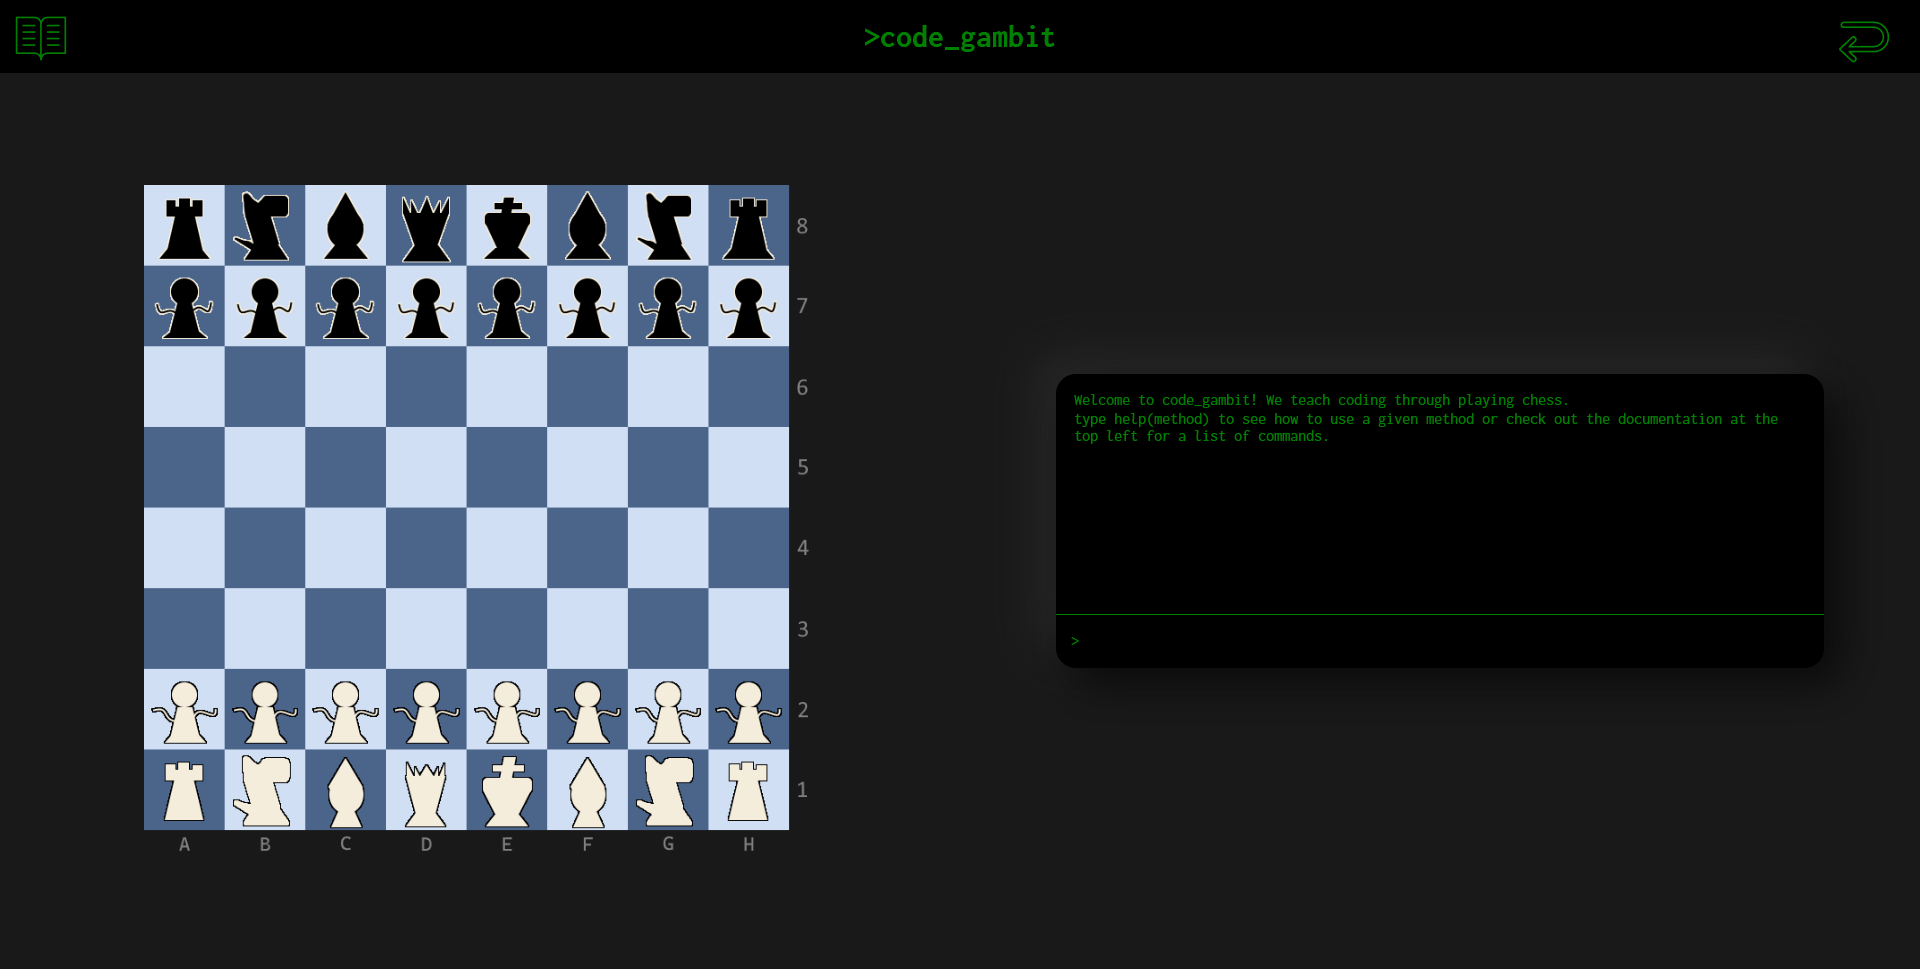
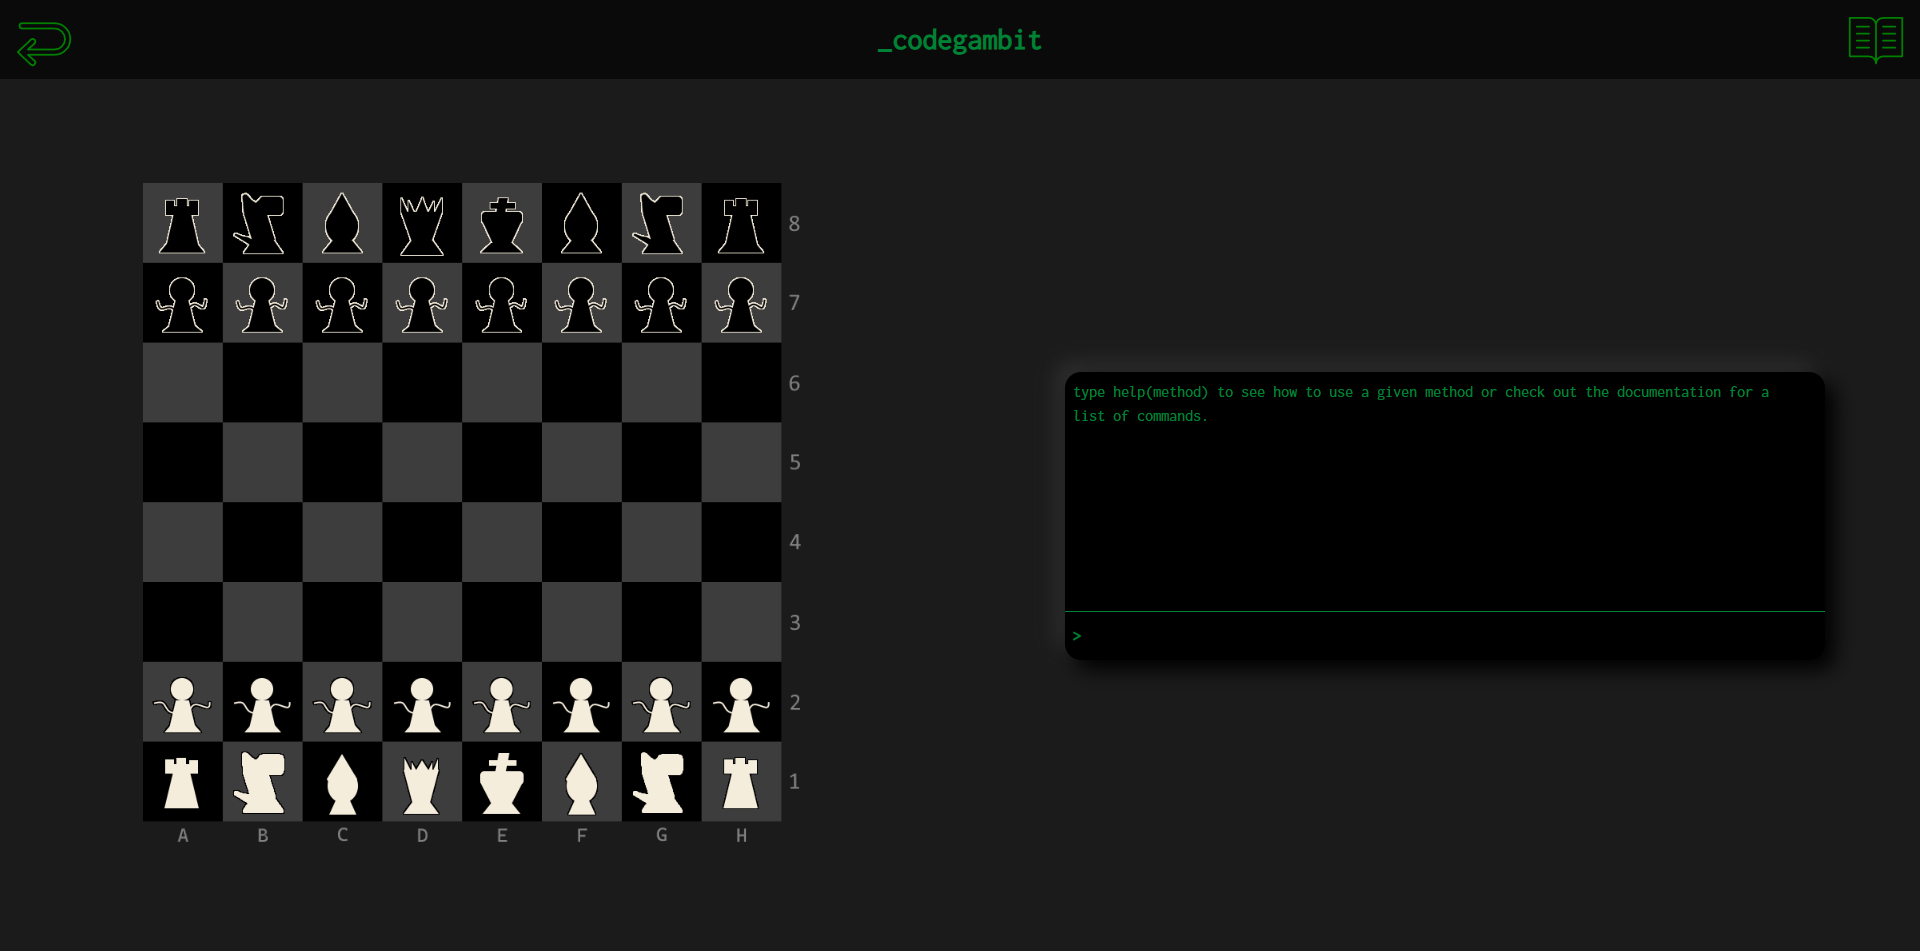
updated readme and added documentation nav to header

diff --git a/src/components/header.tsx b/src/components/header.tsx
@@ -1,19 +1,27 @@
-import { Link } from 'react-router-dom';
+import { useNavigate, useLocation, Link } from 'react-router-dom';
 import backIcon from '../assets/icons/back.svg';
+import docsIcon from '../assets/icons/docs.svg';
 
-function NavHeader(from: string) {
+function NavHeader() {
+    const navigate = useNavigate();
+    const location = useLocation();
 
     return <header className='text-green-700 w-full h-20 min-h-20 flex justify-center place-items-center bg-neutral-950'>
-        <Link
-            to="../"
-            state={{from: from}}
-            className='absolute left-4'
+        <button
+            onClick={() => navigate(-1)}
+            className='absolute left-4 cursor-pointer'
         >
             <img src={backIcon} className="w-14" />
-        </Link>
+        </button>
         <h1 className='text-3xl font-semibold'>
             _codegambit
         </h1>
+        <Link
+            to="../documentation"
+            className={`absolute right-4${location.pathname == '/documentation' ? ' hidden' : ''}`}
+        >
+            <img src={docsIcon} className="w-14" />
+        </Link>
     </header>
 }
 

diff --git a/src/pages/documentation.tsx b/src/pages/documentation.tsx
@@ -10,7 +10,7 @@ function DocumentationPage() {
     const data: CommandCategory[] = DocData;
 
     return <div className='text-green-700 h-screen overflow-hidden'>
-        { NavHeader('documentation') }
+        <NavHeader />
         <div className='w-screen h-[calc(100%-5rem)] flex'>
             <div className="h-full overflow-y-scroll bg-neutral-900 transition-all duration-500 w-0 opacity-0 lg:w-65 lg:min-w-[250px] lg:opacity-100">
                 <h1 className='font-extrabold text-3xl p-3'>Documentation</h1>

diff --git a/src/pages/puzzles.tsx b/src/pages/puzzles.tsx
@@ -5,7 +5,7 @@ import PuzzleSelector from "../components/puzzleselector";
 function PuzzlesPage() {
 
     return <div className="flex flex-col w-full min-h-screen justify-between items-center">
-        { NavHeader('puzzles') }
+        <NavHeader />
         <section className="h-full my-auto w-full flex flex-col gap-5 py-5 justify-center items-center lg:grid lg:grid-cols-2 lg:place-items-center">
             <Board />
             <PuzzleSelector />

diff --git a/src/pages/scripting.tsx b/src/pages/scripting.tsx
@@ -5,7 +5,7 @@ import ScriptEditor from "../components/scripteditor";
 function ScriptingPage() {
 
     return <div className="flex flex-col w-full min-h-screen justify-around items-center">
-        { NavHeader('scripting') }
+        <NavHeader />
         <section className="h-full my-auto w-full flex flex-col py-5 gap-5 justify-center items-center lg:grid lg:grid-cols-2 lg:place-items-center">
             <Board />
             <ScriptEditor />

diff --git a/src/pages/singleplayer.tsx b/src/pages/singleplayer.tsx
@@ -5,7 +5,7 @@ import Terminal from "../components/terminal";
 function SinglePlayerPage() {
 
     return <div className="flex flex-col w-full min-h-screen justify-between items-center">
-        { NavHeader('singleplayer') }
+        <NavHeader />
         <section className="h-full my-auto w-full flex flex-col gap-5 py-5 justify-center items-center lg:grid lg:grid-cols-2 lg:place-items-center">
             <Board />
             <Terminal />

diff --git a/src/interpreters/scriptinterpreter.tsx b/src/interpreters/scriptinterpreter.tsx
@@ -3,7 +3,9 @@ import { setScript } from "../reducers/script";
 import { useAppDispatch } from '../store/hooks';
 
 class ScriptInterpreter {
+    
     dispatch = useAppDispatch();
+
     _commandIndex: number = 0;
     _commands: string[] = [];
     _variables: ScriptVariable[] = [];

diff --git a/README.md b/README.md
@@ -12,11 +12,9 @@
     learn the basics of coding by playing chess!
     <br />
     <br />
-    <a href="https://github.com/joshbacon/codegambit">View Site</a>
+    <a href="http://codegambit.joshbacon.ca/">View Site</a>
     ·
     <a href="https://github.com/joshbacon/codegambit/issues/new">Report Bug</a>
-    ·
-    <a href="https://github.com/joshbacon/codegambit/issues/new">Request Feature</a>
   </p>
 </div>
 
@@ -26,24 +24,24 @@
 <!-- ABOUT THE PROJECT -->
 ## About The Project
 
-[![codegambit Screen Shot][product-screenshot]](https://codegambit.io)
+[![codegambit Screen Shot]][product-screenshot]
 
-`codegambit` is web app aimed to get users used to entering commands and writing simple functions in the context of playing chess. Play a game against a bot or a friend by entering commands into a terminal. You can also complete puzzles and lessons by writing scripts that execute multiple moves to solve the problem.
+`codegambit` is web app aimed to get users used to entering commands and scripting in the context of playing chess. Play a game against a bot or complete puzzles by writing scripts that execute multiple moves to solve the problem.
 
 
 
 ### Built With
 
-This project is built with primarily JavaScript at the moment. I used React for the frontend design and functionality along with Redux to maintain the game state. The user management system was implemented with the help of PocketBase. This allows for game/puzzle/lesson tracking and opens the door for multiplayer games.
+This project is built with primarily TypeScript at the moment. I used React for the frontend design and functionality along with Redux to maintain the game state. 
 
 * [![React][React.js]][React-url]
 * [![Redux][Redux.com]][Redux-url]
-* [![PocketBase][PocketBase]][PocketBase-url]
 
 ### Coming Up
 
-I aim to create a Go backend to maintain multiplayer game lobbies using websockets. For faster load times, and other benefits of server side rendering, I also want to migrate to Next.JS.
+The user management system was implemented with the help of PocketBase. This will allow for game/puzzle tracking and opens the door for multiplayer games. I aim to create a Go backend to maintain multiplayer game lobbies using websockets. For faster load times, and other benefits of server side rendering, I also want to migrate to Next.JS.
 
+* [![PocketBase][PocketBase]][PocketBase-url]
 * [![go][go]][go-url]
 * [![Next.js][Next.js]][Next-url]
 
@@ -52,10 +50,10 @@ I aim to create a Go backend to maintain multiplayer game lobbies using websocke
 ## Roadmap
 
 - [x] Finalize base-application
-- [ ] Add backend
 - [ ] Add puzzles/lessons
+- [ ] Add backend
 - [ ] Add multiplayer & accounts
-- [ ] Migrate to Next.js for SSR
+- [ ] Migrate to Next.js
 
 See the [open issues](https://github.com/joshbacon/codegambit/issues) for a full list of proposed features (and known issues).
 
